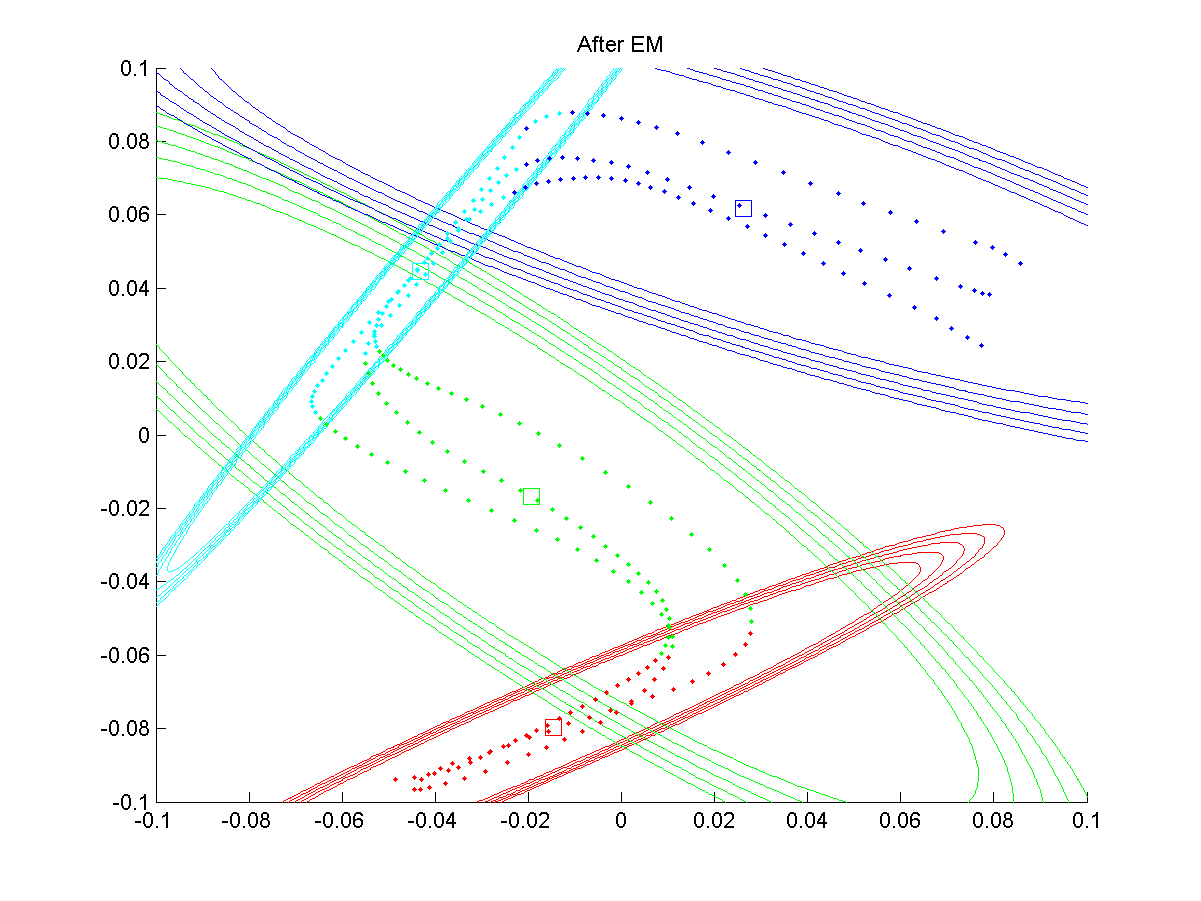
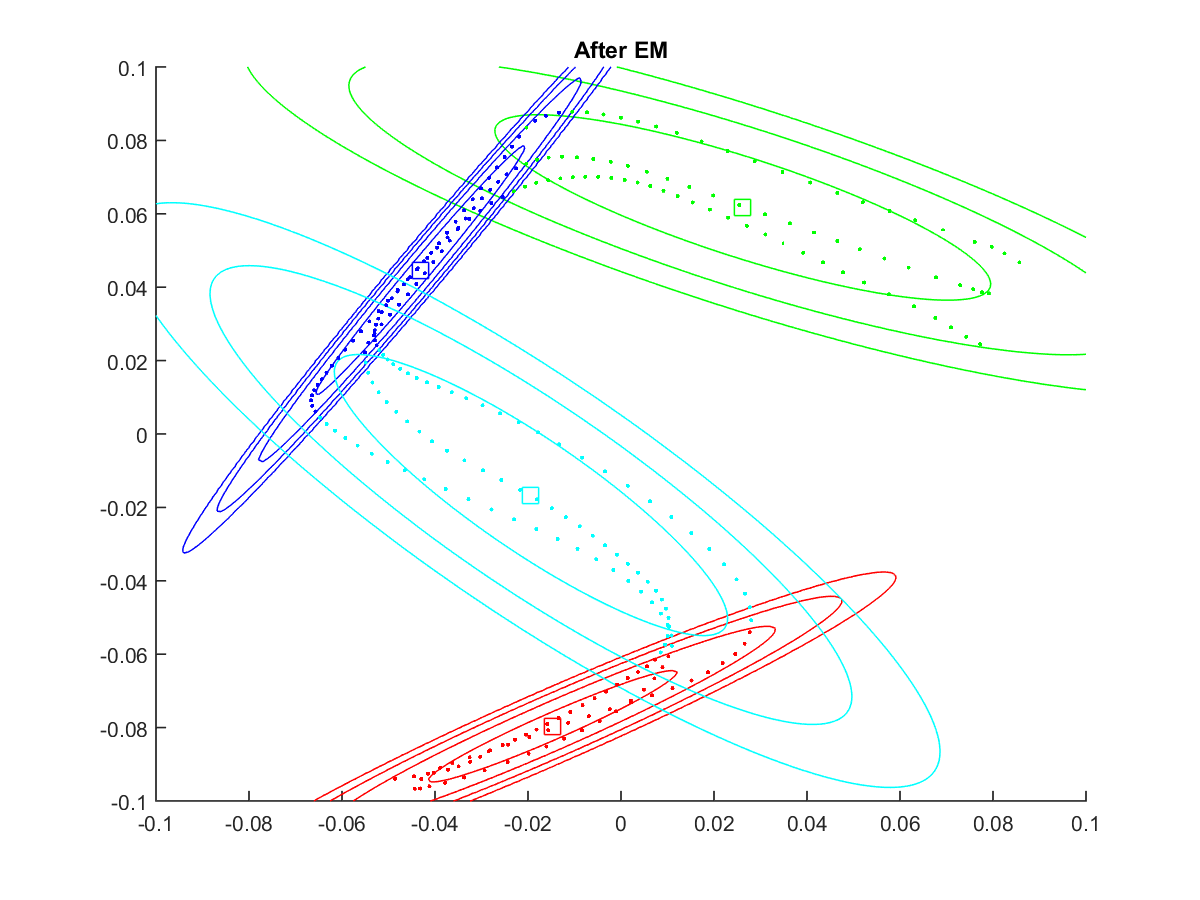
plotGmm verbessert

diff --git a/Assignment2/Exercise1/plotGmm.m b/Assignment2/Exercise1/plotGmm.m
@@ -9,9 +9,8 @@ K = size(MU,2);
 
 [m,N] = size(X);
 
-for j = 1:5
-    h(j) = exp(-(j-1));
-end
+%heights
+h = exp(1:2:7);
 
 f = figure;
 hold all;
